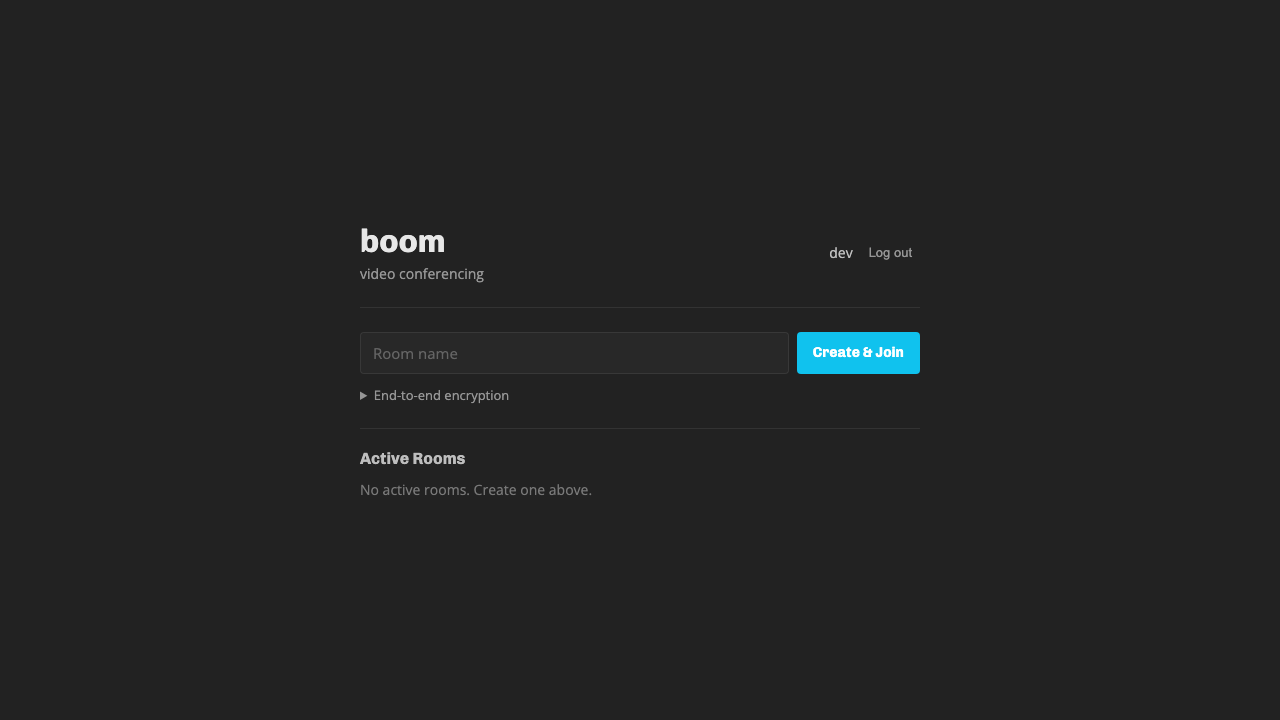
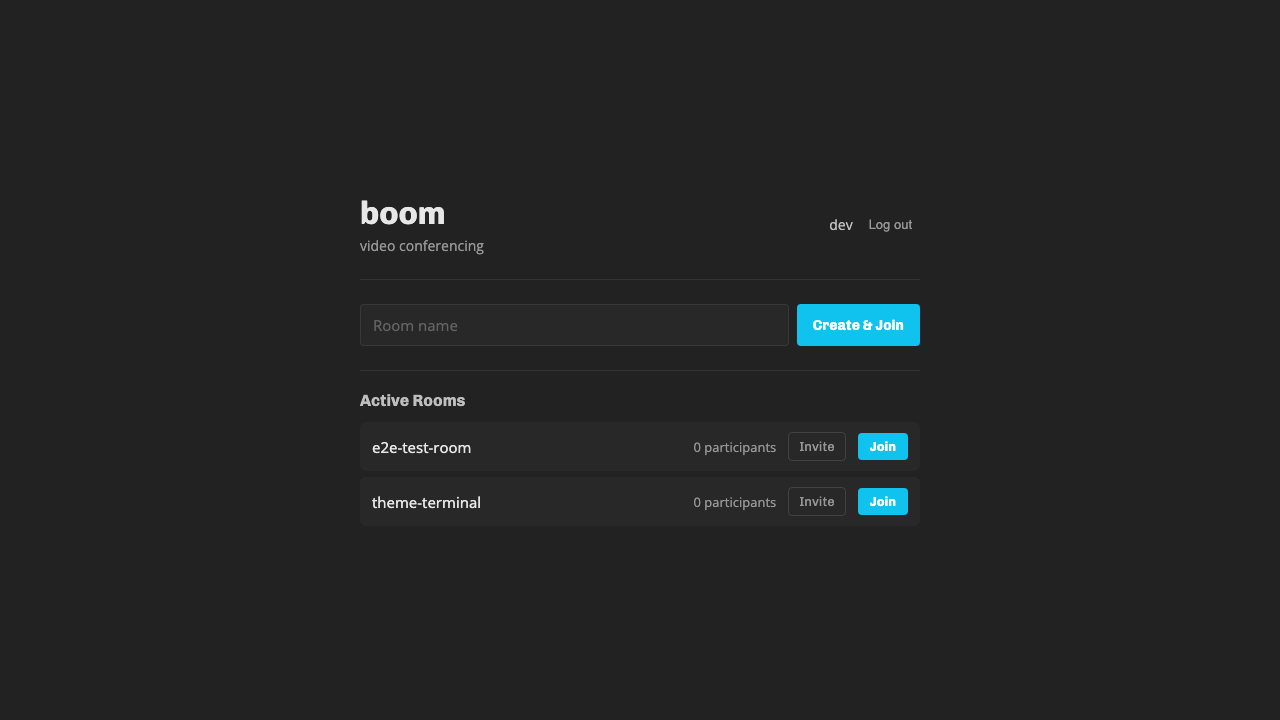
Document terminal theme with a screenshot; add screenshots npm script
- README: add docs/theme-terminal.png under the existing screenshots and
  a "Themes" bullet in the feature list
- package.json: new `screenshots` script that runs the full Playwright
  suite and copies the canonical screenshots into docs/
- e2e/themes.spec.ts: new spec that joins a room, switches to the
  Terminal theme via the Settings modal, and captures
  theme-terminal-room.png (consumed by the screenshots script)
- AGENTS.md: new agent-facing doc pointing at `npm run screenshots`
- docs/: regenerate auth.png, lobby.png, live-room.png, live-chat.png
  with the new token-based styling

diff --git a/e2e/themes.spec.ts b/e2e/themes.spec.ts
@@ -1,0 +1,45 @@
+import { test, expect } from "@playwright/test";
+
+test.describe("Themes", () => {
+  test("terminal theme renders the room in green phosphor", async ({ page }) => {
+    // Log in via dev bypass, then create a room
+    await page.goto("/api/auth/dev");
+    await expect(page.locator("text=Active Rooms")).toBeVisible({ timeout: 10_000 });
+    await page.locator('input[placeholder="Room name"]').fill("theme-terminal");
+    await page.locator("text=Create & Join").click();
+
+    // Wait for the room UI
+    await expect(page.locator(".control-bar")).toBeVisible({ timeout: 15_000 });
+    await page.waitForTimeout(1_000);
+
+    // Open Settings and switch to Terminal theme
+    await page.locator("button").filter({ hasText: "Settings" }).click();
+    const settingsDialog = page.locator("dialog.settings-dialog");
+    await expect(settingsDialog).toBeVisible();
+    await settingsDialog.locator('input[value="terminal"]').check();
+
+    // Close the settings dialog via the Done button
+    await settingsDialog.getByRole("button", { name: "Done" }).click();
+    await expect(settingsDialog).toBeHidden();
+    await page.waitForTimeout(300);
+
+    // Theme should be applied to <html data-theme="terminal">
+    await expect(page.locator("html")).toHaveAttribute("data-theme", "terminal");
+
+    await page.screenshot({
+      path: "e2e/screenshots/theme-terminal-room.png",
+      fullPage: true,
+    });
+
+    // Also capture the lobby in terminal theme
+    const leaveButton = page.locator(".control-btn--danger");
+    await leaveButton.click();
+    await page.locator("dialog").getByRole("button", { name: "Leave" }).click();
+    await expect(page.locator("text=Active Rooms")).toBeVisible({ timeout: 5_000 });
+
+    await page.screenshot({
+      path: "e2e/screenshots/theme-terminal-lobby.png",
+      fullPage: true,
+    });
+  });
+});

diff --git a/README.md b/README.md
@@ -10,10 +10,15 @@ Video conferencing with end-to-end encryption, powered by LiveKit.
 
 ![Chat](docs/live-chat.png)
 
+Themeable — switch from the Settings modal:
+
+![Terminal theme](docs/theme-terminal.png)
+
 ## Features
 
-- **GitHub OAuth authentication** with allowlist (usernames and/or org membership)
-- **Room lobby** — browse active rooms with participant counts, create and join rooms
+- GitHub OAuth authentication with allowlist (usernames and/or org membership)
+- Room lobby — browse active rooms with participant counts, create and join rooms
+- Themes — swap the whole visual system (colors, fonts, shapes, motion) via the Settings modal; ships with Classic and a Terminal CRT theme, driven by `[data-theme]` tokens
 - Aspect-aware tile packing — each tile sized to its stream's native aspect ratio, packed tightly with no grid
 - Pin mode — pin tiles to split the view with a resizable divider, both halves independently packed
 - Fullscreen video — click to watch a single stream in native fullscreen (Escape to exit)

diff --git a/AGENTS.md b/AGENTS.md
@@ -1,0 +1,19 @@
+# boom — agent notes
+
+This file is for agent-specific notes that don't belong in `README.md` (for humans) or `CLAUDE.md` (for everyday Claude Code instructions).
+
+## Updating README screenshots
+
+The screenshots referenced from `README.md` live in `docs/`. They're produced by the Playwright e2e tests and then copied into `docs/` by the `screenshots` npm script.
+
+**Prerequisites:** the dev server must already be running on port 3000 (`npm run dev` in another terminal) because Playwright connects to the live app.
+
+```bash
+npm run screenshots
+```
+
+What it does:
+1. Runs the full Playwright suite (which writes PNGs to `e2e/screenshots/`).
+2. Copies the canonical ones into `docs/` — `auth.png`, `lobby.png`, `live-room.png`, `live-chat.png`, `theme-terminal.png`.
+
+If you add a new screenshot to the README, add the corresponding `cp` to the `screenshots` script so it stays reproducible.
